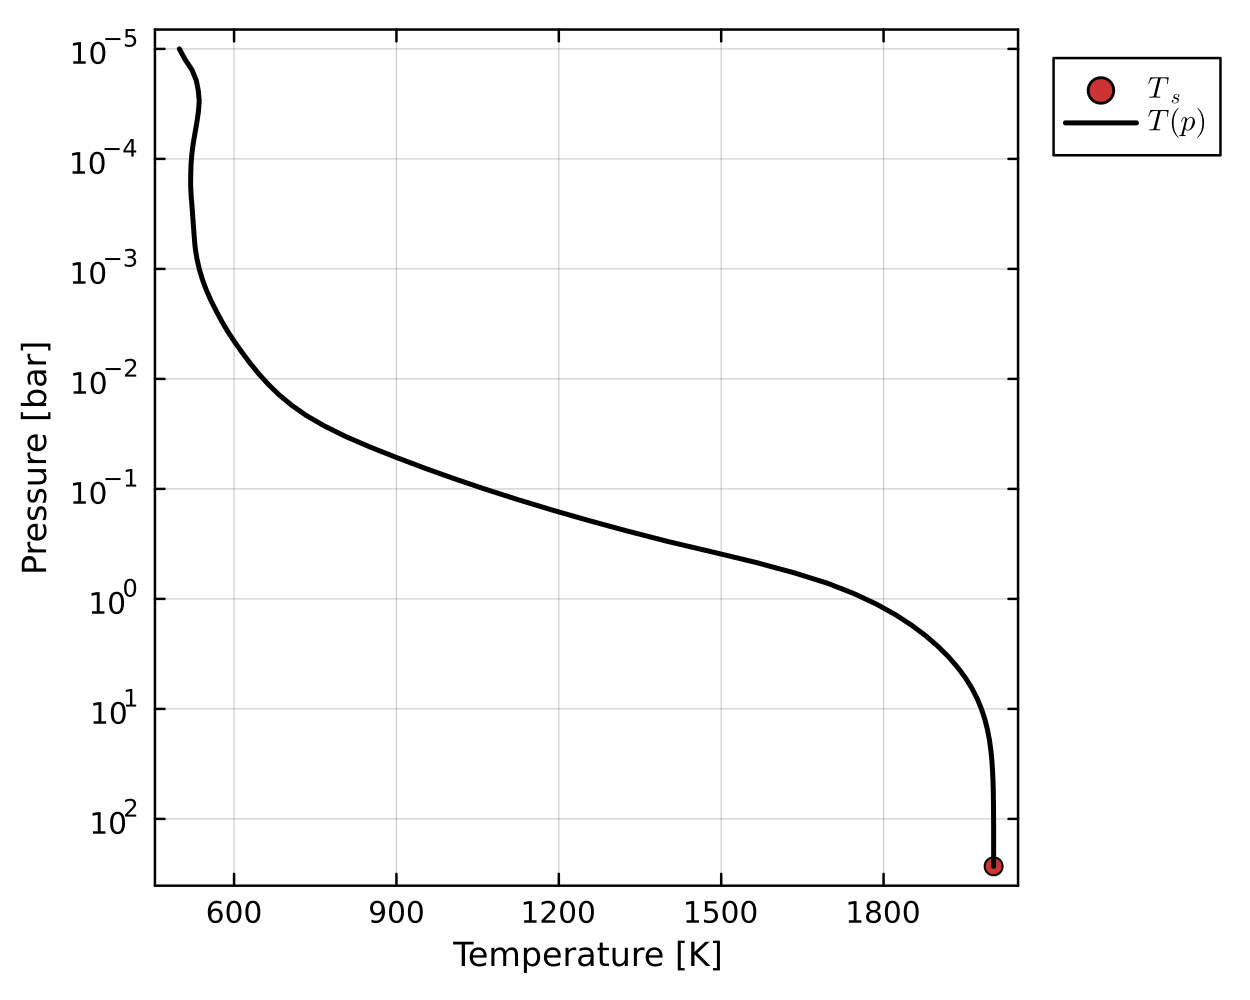
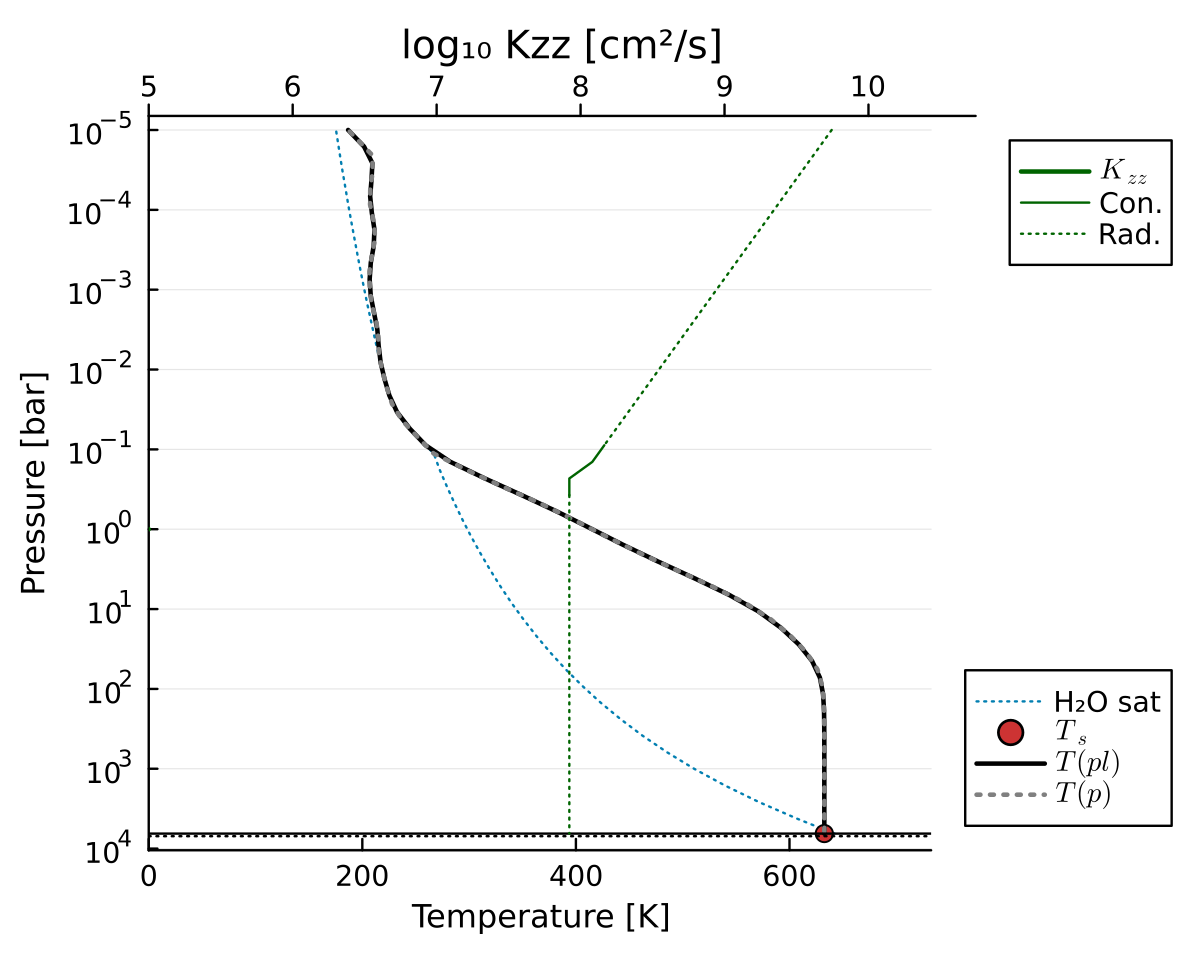
Update tutorials, tests, and config parser

diff --git a/docs/src/tutorials/index.md b/docs/src/tutorials/index.md
@@ -7,22 +7,52 @@ Jupyter notebooks which reproduce these results in the
 [tutorials directory](https://github.com/nichollsh/AGNI/tree/main/tutorials) of
 the repository.
 
-## Pure steam runaway greenhouse effect
-By assuming the atmosphere temperature profile follows a dry adiabat and the water
-vapour-condensate coexistence curve defined by the Clausius-Clapeyron relation, we see a
-characteristic relationship between the outgoing longwave radiation (OLR) and the surface
-temperature ($T_s$). Initially OLR increases with $T_s$, but as the condensing layer
-(which is independent of $T_s$) overlaps with the photosphere, OLR and $T_s$ decouple.
-Eventually the atmosphere reaches a dry post-runaway state, and OLR increases rapidly
-with $T_s$.
+## Your first calculation
 
-![](fig_runaway.png)
+So you want to run some standalone climate calculations? Let's start with a simple steam atmosphere with a temperature profile 'prescribed' to follow an adiabat.
 
+Run AGNI with the default configuration file:
+```bash
+./agni.jl res/config/default.toml
+```
 
-## Prescribed convective case
-In this case, a temperature profile is prescribed to follow a dry adiabat from the
-surface to a moist region, and then a pseudoadiabat to the top of the atmosphere. This is
-in line with previous works and the OLR curve above.
+You should see the following output:
+```log
+[ INFO  ] Using configuration 'Default'
+[ INFO  ] Setting-up a new atmosphere struct
+[ INFO  ] Loading thermodynamic data
+[ INFO  ] Inserting stellar spectrum, Rayleigh coefficients
+[ INFO  ] Allocating atmosphere with initial composition:
+[ INFO  ]       1 H2O      1.00e+00 (EOS_AQUA)
+[ INFO  ] Setting T(p): dry, sat
+[ INFO  ] Solving with 'none'
+[ INFO  ]     done
+[ INFO  ] Radiative transfer benchmarking statistics...
+[ INFO  ]     total RT evals:  2
+[ INFO  ]     cumulative time: 0.437389641 secs
+[ INFO  ]     time per eval:   218.6948205 ms
+[ INFO  ] Writing results
+[ INFO  ] Plotting results
+[ INFO  ] Model runtime: 18.63 seconds
+
+```
+
+We can see a few things here. Firstly, AGNI tells us which configuration file it is using and starts the setup.
+
+The line following "Allocating atmosphere with composition" is a table of gases, their
+volume mixing ratios, and flags. In this case there is only one gas. Potential flags for each gas species are:
+* `EOS_[XX]` - using the `[XX]` equation of state (e.g. ideal gas, AQUA)
+* `NO_OPACITY` - no opacity data available, but can contribute to the thermodynamics
+* `NO_THERMO` - no thermodynamic data available, so will be treated as a diatomic ideal gas
+* `COND` - this gas is allowed to condense
+
+Note that 'gas' here refers to a chemical species that generally, but not necessarily exists in as gas phase, so it could be supercritical or condensed.
+
+The temperature profile is set the the **dry** adiabat with a **sat**urated upper atmosphere.
+
+No radiative-convective solution is requested here, so there is no solver to be called. Hence, the model outputs "Solving with none".
+
+Output files are written to the directory specified in the configuration file (default: `out/`). This includes a NetCDF data file and various plots.
 
 ![](fig_nosolve_ptprofile.png)
 
@@ -32,29 +62,152 @@ profile is prescribed, the fluxes are not balanced locally or globally across th
 ![](fig_nosolve_fluxes.png)
 
 
-## Radiative-convective solution
-Instead, we can model an atmosphere such that energy is globally and locally conserved.
+## Radiative-convective solution (command line)
+
+Instead, we can model an atmosphere such that energy is globally and locally conserved. This is a state of radiative-convective equilibrium, although latent heat effects and conduction are also included.
+
+To see this case, run the configuration used for the test suite:
+```bash
+./agni.jl test/test.toml
+```
+
+The output now contains more details. Below, I have inserted inline comments to qualify the meaning of each section of the output log.
+
+```log
+# Initial setup and memory allocation.
+[ INFO  ] Using configuration 'Unit tests configuration'
+[ INFO  ] Setting-up a new atmosphere struct
+
+# Load thermo data from pre-computed tables, which are stored in the res/ folder.
+[ INFO  ] Loading thermodynamic data
+
+# Sample the provided spectrum onto the correlated-k bands.
+[ INFO  ] Inserting stellar spectrum, Rayleigh coefficients
+
+# Allocate arrays for storing gas mixing ratios, etc.
+[ INFO  ] Allocating atmosphere with initial composition:
+[ INFO  ]       1 H2O      1.11e-01 (COND EOS_IDEAL)
+[ INFO  ]       2 CO2      8.33e-01 (EOS_IDEAL)
+[ INFO  ]       3 N2       5.56e-02 (EOS_IDEAL)
+
+# Set the initial temperature profile to be isothermal.
+[ INFO  ] Setting T(p): iso
+
+# We will solve for RCE using a damped Newton Optimisation method.
+# Sol_type means to solve for a particular flux_int, or equivalently, Tint.
+# Here, we the configuration file specifies Tint=0 K.
+[ INFO  ] Solving with 'newton'
+[ INFO  ]     sol_type = 3,     conv_type = 1
+[ INFO  ]     flux_int = 0.00 W m-2
+
+# Begin iterations to solve for RCE, up to a specified tolerance.
+# The 'cost' function decreases as we eventually converge upon a solution.
+[ INFO  ]     step  |res_med|    cost     flux_OLR   max(x)     max(|dx|)  flags
+[ INFO  ]        1  3.310e+01  1.119e+06  1.361e+04  7.010e+02  1.500e-03  Cs-M-C2-Ls
+[ INFO  ]        2  2.924e+01  2.197e+05  5.778e+03  6.803e+02  1.500e+02  Cs-M-C2
+[ INFO  ]        3  1.655e+01  1.315e+04  2.008e+03  6.142e+02  1.500e+02  Cs-M-C2
+[ INFO  ]        4  5.056e+00  3.188e+02  7.977e+02  6.276e+02  1.027e+02  Cs-M-C2
+[ INFO  ]        5  1.829e+00  1.198e+02  4.706e+02  6.302e+02  7.784e+01  Cs-M-C2
+[ INFO  ]        6  3.314e-01  2.484e+01  3.845e+02  6.322e+02  7.669e+01  Cs-M-C2
+[ INFO  ]        7  6.487e-02  2.404e+01  3.720e+02  6.324e+02  4.582e+01  Cs-M-C2
+[ INFO  ]        8  2.006e-02  2.715e+01  3.732e+02  6.325e+02  1.430e+01  Cs-M-C2
+[ INFO  ]        9  2.135e-02  1.772e+01  3.491e+02  6.327e+02  1.530e+01  Cs-M-C2
+[ INFO  ]       10  3.596e-03  6.479e+00  3.517e+02  6.327e+02  4.241e+00  Cs-M-C2
+[ INFO  ]       11  7.630e-04  7.853e+00  3.462e+02  6.327e+02  4.367e+00  Cs-Mr-C2-Ls
+[ INFO  ]       12  2.962e-04  1.612e+00  3.446e+02  6.327e+02  1.224e+00  Cs-Mr-C2
+[ INFO  ]       13  1.698e-04  4.021e+00  3.441e+02  6.327e+02  6.182e-01  Cs-Mr-C2
+[ INFO  ]       14  6.885e-04  1.298e+01  3.412e+02  6.327e+02  5.994e-01  Cs-Mr-C2
+[ INFO  ]       15  9.680e-04  1.078e+02  3.475e+02  6.327e+02  2.234e+00  Cs-M-C2-Ls
+[ INFO  ]       16  1.489e-03  1.601e+01  3.450e+02  6.327e+02  1.832e+00  Cs-M-C2
+[ INFO  ]       17  3.372e-04  1.145e+01  3.421e+02  6.327e+02  4.160e-01  Cs-M-C2
+[ INFO  ]       18  2.949e-04  3.664e+01  3.440e+02  6.327e+02  1.666e+00  Cs-M-C2-Ls
+[ INFO  ]       19  4.438e-04  5.535e+00  3.453e+02  6.327e+02  7.897e-01  Cs-M-C2
+[ INFO  ]       20  1.765e-04  2.354e+00  3.454e+02  6.327e+02  2.167e-01  Cs-Mr-C2
+[ INFO  ]       21  1.625e-04  1.381e+00  3.455e+02  6.327e+02  1.386e-01  Cs-Mr-C2
+[ INFO  ]       22  1.598e-04  1.478e+00  3.454e+02  6.327e+02  2.909e-01  Cs-Mr-C2-Ls
+[ INFO  ]       23  2.287e-04  1.793e+00  3.452e+02  6.327e+02  5.355e-01  Cs-Mr-C2-Ls
+[ INFO  ]       24  4.640e-04  2.384e+00  3.449e+02  6.326e+02  1.002e+00  Cs-Mr-C2
+[ INFO  ]       25  1.365e-03  3.780e+00  3.444e+02  6.326e+02  1.882e+00  Cs-Mr-C2
+[ INFO  ]       26  2.153e-03  6.138e+00  3.432e+02  6.326e+02  3.277e+00  Cs-Mr-C2
+[ INFO  ]       27  2.802e-03  5.326e+00  3.430e+02  6.326e+02  2.846e+00  Cs-Mr-C2
+[ INFO  ]       28  6.560e-04  3.686e+00  3.443e+02  6.326e+02  6.242e-01  Cs-C2-Ls
+[ INFO  ]       29  2.976e-04  3.962e+00  3.455e+02  6.326e+02  5.136e-01  Cs-C2-Ls
+[ INFO  ]       30  6.007e-05  2.412e+00  3.456e+02  6.326e+02  1.653e-01  Cs-C2
+[ INFO  ]       31  2.877e-06  3.662e-01  3.455e+02  6.326e+02  6.625e-02  Cs-C2
+[ INFO  ]     success in 31 steps
+
+# Convergence information about the final state.
+# The tolerance in the configuration file means that 0.36 W/m^2 of energy is lost.
+[ INFO  ]     total flux at TOA  = -1.03e-02 W m-2
+[ INFO  ]     total flux at BOA  = +1.10e-06 W m-2
+[ INFO  ]     global flux loss   = +3.63e-01 W m-2  (+1.21e+02 %)
+[ INFO  ]     final conv.value   = +3.66e-01 W m-2
+[ INFO  ]     surf temperature   = 632.616   K
+[ INFO  ]     surf pressure      = 6.485e+03 bar
+[ INFO  ]     done
+
+# SOCRATES radiative transfer performance (can be disabled in config).
+[ INFO  ] Radiative transfer benchmarking statistics...
+[ INFO  ]     total RT evals:  5943
+[ INFO  ]     cumulative time: 15.648886829 secs
+[ INFO  ]     time per eval:   2.6331628519266363 ms
+
+# Final surface temperature is less than the dew point of steam, so the surface is super-saturated and an ocean is rained out.
+[ INFO  ] Surface liquid H2O mass: 2.61e+06 kg/m^2
+
+# Given the ocean basin geometry in the config, this corresponds to a water world.
+[ INFO  ] Oceans cover 100% area, max depth 3.92292 km
+
+
+# Final information is written and plots are created (see below).
+[ INFO  ] Writing results
+[ INFO  ] Plotting results
+[ INFO  ] Model runtime: 33.25 seconds
+```
+
+The final temperature profile is plotted in the output folder. It shows a near-isothermal stratosphere and near-isothermal deep radiative region (since Tint=0).
+
+![](fig_withsolve_ptprofile.png)
+
 Convection is parameterised using mixing length theory in this case, allowing the system
 to be solved using a Newton-Raphson method. In the convective region at ~0.1 bar, we can
 see that the radiative fluxes and convective fluxes entirely cancel, because AGNI was
-asked to solve for a case with zero total flux transport.
-
-![](fig_withsolve_ptprofile.png)
+asked to solve for a case with zero total flux transport. The MLT convection scheme also estimates the Kzz profile shown in the T(p) plot.
 
 ![](fig_withsolve_fluxes.png)
 
 
 We can also plot the outgoing emission spectrum and normalised longwave contribution
-function (CF). The spectrum clearly demonstrates complex water absorption features, and
-exceeds blackbody emission at shorter wavelengths due to Rayleigh scattering. The CF
-quantifies how much each pressure level contributes to the outgoing emission spectrum at a
-given wavelength -- this is then plotted versus wavelength and pressure.
-
+function (CF). The spectrum clearly demonstrates complex spectral absorption features, and exceeds blackbody emission at shorter wavelengths due to Rayleigh scattering.
 
 ![](fig_withsolve_emission.png)
 
+The CF quantifies how much each pressure level contributes to the outgoing emission spectrum at agiven wavelength -- this is then plotted versus wavelength and pressure.
 
-## Aerosol radiative properties
+![](fig_withsolve_cff.png)
+
+To view the output data, we can use the `ncdump` command line utility. This data could also be read by Julia and Python libraries.
+
+```bash
+ncdump -h out/atm.nc
+```
+
+From this, we get a lot of output. These include all the spectral fluxes, gas profiles, thermodynamic profiles, and metadata. The header information should look something like this:
+
+```log
+// global attributes:
+:description = "AGNI atmosphere data" ;
+:date = "2026-May-25 07:41:21" ;
+:hostname = "your_computer_name" ;
+:username = "your_username" ;
+:AGNI_version = "1.10.3" ;
+:SOCRATES_version = "2603.7" ;
+:SOCRATES_precision = "double" ;
+:name = "41a2d25b" ;
+:platform = "your_operating_system" ;
+```
+
+## Aerosol radiative properties (command line)
 AGNI incorporates the radiative effects of aerosols and clouds in the atmosphere. The model supports arbitrary aerosol types, based on Mie theory. Pre-computed aerosol types include soot, ash, sulfate, and nitrate particles.
 
 In the example below, an atmosphere is configured with three aerosol species at different concentrations. The configuration file is located at `res/config/physics/aerosols.toml`
@@ -69,4 +222,16 @@ Aerosols modify both shortwave and longwave radiative transfer. The flux profile
 The emission spectrum highlights the fingerprint of the aerosols. The plot shows a distinct shortwave contribution (blue line) due to back-scattering from the aerosols specifically, with some identifiable features.
 
 ![](fig_aerosol_emission.png)
+
+## Pure steam runaway greenhouse limit (notebook)
+By assuming the atmosphere temperature profile follows a dry adiabat and the water
+vapour-condensate coexistence curve defined by the Clausius-Clapeyron relation, we see a
+characteristic relationship between the outgoing longwave radiation (OLR) and the surface
+temperature ($T_s$). Initially OLR increases with $T_s$, but as the condensing layer
+(which is independent of $T_s$) overlaps with the photosphere, OLR and $T_s$ decouple.
+Eventually the atmosphere reaches a dry post-runaway state, and OLR increases rapidly
+with $T_s$.
+
+![](fig_runaway.png)
+
 

diff --git a/docs/src/howto/getting_started.md b/docs/src/howto/getting_started.md
@@ -28,15 +28,6 @@ Follow the ordered steps below
     - a) Follow the instructions on the [SOCRATES GitHub](https://github.com/FormingWorlds/SOCRATES) page
     - b) **OR**, run `./src/get_socrates.sh`
 
-### SOCRATES floating point precision
-SOCRATES can be compiled in single or double precision. The Julia interface exposes this
-via `SOCRATES_REAL_BYTES`:
-- `4` means single precision.
-- `8` means double precision.
-
-AGNI records the value in outputs as `SOCRATES_precision`. If the SOCRATES Julia
-interface does not define `SOCRATES_REAL_BYTES`, AGNI assumes double precision (`8`).
-
 4. Setup FastChem
     - `./src/get_fastchem.sh`
 
@@ -68,44 +59,13 @@ automatically pull changes from GitHub and download any required data files.
 ./src/get_agni.sh
 ```
 
-## Your first model run
+## What next?
 
-The environment variable `RAD_DIR` must point to the SOCRATES installation
-directory. The best way to do this is to add `RAD_DIR=path/to/socrates/folder/` to your
-shell rc file (e.g. `~/.bashrc`).
-
-Then run AGNI with the default configuration file:
+To run AGNI with the default configuration file:
 ```bash
-./agni.jl
+./agni.jl res/config/default.toml
 ```
-
-You should see the following output:
-```log
-[ INFO  ] Using configuration 'Default'
-[ INFO  ] Setting-up a new atmosphere struct
-[ INFO  ] Loading thermodyamic data
-[ INFO  ] Inserting stellar spectrum and Rayleigh coefficients
-[ INFO  ] Allocating atmosphere with composition:
-[ INFO  ]       1 H2O     1.00e+00 (EOS_AQUA)
-[ INFO  ] Setting T(p): dry, sat
-[ INFO  ] Solving with 'none'
-[ INFO  ]     done
-[ INFO  ] Total RT evalulations: 2
-[ INFO  ] Writing results
-[ INFO  ] Plotting results
-[ INFO  ] Deallocating memory
-[ INFO  ] Model runtime: 16.60 seconds
-```
-
-The line following "Allocating atmosphere with composition" is a table of gases, their
-volume mixing ratios, and flags. In this case there is only one gas.
-
-Potential flags for each species are:
-* `EOS_[XX]` - using the `[XX]` equation of state (e.g. ideal gas, AQUA)
-* `NO_OPACITY` - no opacity data available, but can contribute to the thermodynamics
-* `NO_THERMO` - no thermodynamic data available, so will be treated as a diatomic ideal gas
-* `COND` - this gas is allowed to condense
 
 Output files are written to the directory specified in the configuration file (default: `out/`).
-See [Tutorials](@ref) for illustrative results, and [How-to guides](@ref) for
-next steps such as configuring the model for your own science case.
+
+See [Tutorials](@ref) for a guided introduction to AGNI with example outputs results. Refer to the other [How-to guides](@ref) for steps on configuring the model for your own science cases.

diff --git a/docs/src/howto/index.md b/docs/src/howto/index.md
@@ -2,7 +2,9 @@
 
 How-to guides are **task-oriented**. They provide concise directions for accomplishing a
 specific goal, assuming you already have AGNI installed and running.
-See [Getting started](@ref) if you have not yet installed the model.
+
+!!! info
+    See [Getting started](@ref) if you have not yet installed the model.
 
 | Guide | Description |
 |:------|:------------|